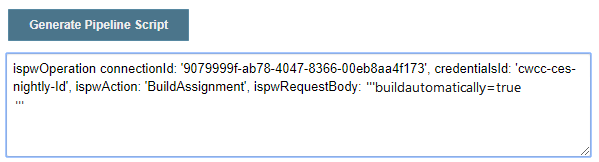
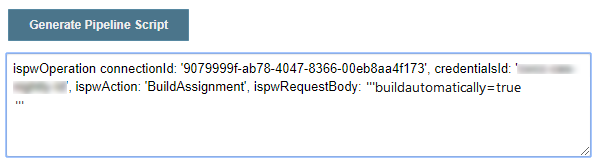
Updated images and text that contained private/sentitive information, cleaned up heading styles, updated introduction and renamed headings to match. Moved a tip to the proper location (at the start of the instructions).

Changed region(s): [[0.0, 0.4938, 0.1202, 0.5864], [0.8414, 0.3704, 0.9616, 0.463]]

diff --git a/docs/guidelines/ispw/GIT_to_ISPW_Integration_Tutorial.md b/docs/guidelines/ispw/GIT_to_ISPW_Integration_Tutorial.md
@@ -4,39 +4,39 @@ footer: MIT Licensed | Copyright © 2020 – Compuware
 ---
 # Git to ISPW Integration Tutorial
 
-This tutorial helps a developer understand the process of how the ISPW and Git synchronization process can be performed. It uses the ISPW training application PLAY to synchronize a change to a component from Git to ISPW. Specifically, after the necessary setup is completed, within Topaz Workbench an ISPW project containing the PLAY application source code is imported to a Git project that is then pushed to the Git repository as the master branch in Bitbucket. Then a new file change is pushed to Git, which then triggers a Jenkins multibranch pipeline job to perform the Git to ISPW integration and perform a build.
+This tutorial helps developers understand how to synchronize ISPW and Git. It uses the ISPW training application, called PLAY, to synchronize a change to a component from Git to ISPW. The sync can be done after the necessary setup is completed within Topaz Workbench and an ISPW project containing the PLAY application source code is imported to a Git project. That project is then pushed to the Git repository as the master branch in Bitbucket. Then a new file change is pushed to Git, which then triggers a Jenkins multibranch pipeline job to perform the Git to ISPW integration and perform a build.
 
-There are three sections in this tutorial: *Environment*, *Overview Steps* and *Detailed Steps*.
+There are three sections in this tutorial:
 
-The *Environment* section describes what environments to use to follow the steps outlined in this tutorial. If a different version of any of the software or plugins are used instead of the versions specified in the *Environment* section, different results may occur than what is shown in this tutorial.
+- *Environment Specifications:* this section describes what environments to use to follow the steps outlined in this tutorial. If a different version of any of the software or plugins are used instead of the versions specified in the *Environment* section, different results may occur than what is shown in this tutorial.
 
-The *Overview Steps* section provides a brief overview of the steps for performing the Git to ISPW integration. This section outlines the following:
+- *Process Overview:* this section provides a brief overview of the steps for performing the Git to ISPW integration. This section outlines the following:
 
-- [Set up the environment.](#set-up-the-environment)
-- [Set up a Git project with the source, YAML file, and Jenkinsfile, and set up a Jenkins multibranch pipeline.](#set-up-a-git-project-with-the-source-yaml-file-and-jenkinsfile-and-set-up-a-jenkins-multibranch-pipeline)
-- [Make a change and build.](#make-a-change-and-build)
-- [Submit change to pipeline.](#submit-change-to-pipeline)
+   - [Set up the environment.](#set-up-the-environment)
+   - [Set up a Git project with the source, YAML file, and Jenkinsfile, and set up a Jenkins multibranch pipeline.](#set-up-a-git-project-with-the-source-yaml-file-and-jenkinsfile-and-set-up-a-jenkins-multibranch-pipeline)
+   - [Make a change and build.](#make-a-change-and-build)
+   - [Submit change to pipeline.](#submit-change-to-pipeline)
 
-The *Detailed Steps* section provides the comprehensive steps to perform the Git to ISPW integration.
+- *Detailed Steps:* this section provides the comprehensive steps to perform the Git to ISPW integration.
 
 
-## Environment
+## Environment Specifications
 These are the minimum releases of software and plugins required.
 
-Topaz Workbench 20.01.01:
-- Egit in Eclipse 5.6.0
+- Topaz Workbench 20.01.01 including:
+   - Egit in Eclipse 5.6.0
 
-Jenkins version 2.190.3:
-- Topaz Workbench CLI version 20.01.01
-- Compuware Common Configurations Jenkins plugin 1.0.10-SNAPSHOT
-- ISPW Operations Jenkins plugin 1.0.8-SNAPSHOT
+- Jenkins version 2.190.3 including:
+   - Topaz Workbench CLI version 20.01.01
+   - Compuware Common Configurations Jenkins plugin 1.0.10-SNAPSHOT
+   - ISPW Operations Jenkins plugin 1.0.8-SNAPSHOT
 
-Atlassian Bitbucket v5.16.0
+- Atlassian Bitbucket v5.16.0
 
-ISPW PLAY application 18.02
+- ISPW PLAY application 18.02
 
 
-## Overview Steps
+## Process Overview
 
 ### **Set up the environment**
 <a id="set-up-the-environment"></a>
@@ -44,8 +44,14 @@ ISPW PLAY application 18.02
 1. [Install the necessary plugins in Topaz Workbench and Jenkins.](#install-the-necessary-plugins-in-topaz-workbench-and-jenkins)
 2. [Verify the ISPW mainframe PLAY application is available.](#verify-the-ispw-mainframe-play-application-is-available)
 
-### **Set up a Git project with the source, YAML file, and Jenkinsfile, and set up a Jenkins multibranch pipeline** 
+### Set up a Git Project and a Jenkins Multibranch Pipeline
+The Git project will include the source, a YAML file, and a Jenkinsfile.
 <a id="set-up-a-git-project-with-the-source-yaml-file-and-jenkinsfile-and-set-up-a-jenkins-multibranch-pipeline"></a>
+
+::: tip
+If the PLAY application is already in Git but the Jenkins Pipeline is not set up, skip steps 1-4 and proceed to step 5. If the PLAY application is already in Git and the Jenkins Pipeline is set up, skip steps 1-8 and proceed to the next section.
+
+:::
 
 1. [From Topaz Workbench’s **Project Explorer** view, create a new general project called **GitPlay** and import the ISPW project source.](#_1-create-an-ispw-project-named-play-play)
 2. [From Topaz Workbench’s **Project Explorer** view within the GitPlay project, configure the ISPW and Git mapping.](#_2-change-the-ispw-project-properties-to-keep-a-downloaded-copy-of-each-component)
@@ -55,11 +61,6 @@ ISPW PLAY application 18.02
 6. [Create a Jenkinsfile, which does a checkout of the source code, performs the Git to ISPW synchronization, and performs a build.](#_6-share-the-gitplay-project-as-a-git-repository-to-convert-the-ispw-project-to-a-git-project)
 7. [From Topaz Workbench’s Project Explorer view, import a Jenkinsfile to the root directory of the GitPlay project.](#_7-create-a-new-git-repository-named-ispwgitplaytest)
 8. [From Topaz Workbench’s Git Staging view, commit and push the GitPlay project to the master branch in the IspwGitPlayTest repository.](#_8-create-a-multibranch-pipeline-project-using-the-jenkinsfile)
-
-::: tip
-If the PLAY application is already in Git but the Jenkins Pipeline is not set up, skip steps 1-4 and proceed to step 5. If the PLAY application is already in Git and the Jenkins Pipeline is set up, skip steps 1-8 and proceed to the next section.
-
-:::
 
 ### **Make a change and build**
 <a id="make-a-change-and-build"></a>
@@ -80,15 +81,15 @@ If the PLAY application is already in Git but the Jenkins Pipeline is not set up
 ## Detailed Steps
 <a id="install-the-necessary-plugins-in-topaz-workbench-and-jenkins"></a>
 
-### Set up the environment
+### Set up the Environment
 
-#### **Install the necessary plugins in Topaz Workbench and Jenkins**
+#### Install the Necessary Plugins in Topaz Workbench and Jenkins
 
-##### <u>Topaz Workbench</u>
+##### **Topaz Workbench**
 
 Install Egit: Refer to [https://www.eclipse.org/egit/download/](https://www.eclipse.org/egit/download) for the installation.
 
-##### <u>Jenkins</u>
+##### **Jenkins**
 
 1. Install Topaz Workbench CLI version 20.01.01 on Windows or Linux according to the following [Topaz Workbench Installation Guide](https://docs.compuware.com/kb/KB2005/HTML/TopazWorkbench_Install/Responsive%20HTML5/index.html#t=TopazWorkbench_Install%2FInstall_Topaz_Workbench%2FInstall_Topaz_Workbench.htm%23TOC_Task_2_3_Install_Topazbc-4&rhsearch=command%20line%20interface&rhsyns=%20&rhtocid=_5_0_2)
    
@@ -101,7 +102,7 @@ Install Egit: Refer to [https://www.eclipse.org/egit/download/](https://www.ecli
 3. ISPW Operations Jenkins plugin. For the installation, refer to [Tool Configurations/Compuware ISPW Operations Plugin](https://devops.api.compuware.com/tool_configuration/plugins.html#compuware-ispw-operations-plugin).
 <a id="verify-the-ispw-mainframe-play-application-is-available"></a>
 
-#### **Verify the ISPW mainframe PLAY application is available** 
+#### Verify the ISPW mMinframe PLAY Application is Available
 
 Verify the ISPW PLAY application was installed as part of the ISPW install. It is installed as part of the Training Application delivered in the ISPW SAMPLIB that is as part of the Installation Verification Process (IVP). 
 
@@ -129,10 +130,10 @@ If you are not logged into a host connection where the ISPW PLAY application is 
 
 <a id="_1-create-an-ispw-project-named-play-play"></a>
 
-### Set up a Git project with the source, YAML file, and Jenkinsfile, and set up a Jenkins multibranch pipeline
+### Set up a Git Project with the Source, YAML File, and Jenkinsfile, and Set Up a Jenkins Multibranch Pipeline
 
 
-#### **Create a new general project called GitPlay and import the ISPW project source**
+#### Create a New General Project called GitPlay and Import the ISPW Project Source
 
 1. In Topaz Workbench’s **Project Explorer** view, from the **File** menu, select **New>Project**. The **New Project** wizard appears. 
 2. Toggle open the **General** node, select **Project**, and click **Next**. The **New Project** page appears.
@@ -217,7 +218,7 @@ If you are not logged into a host connection where the ISPW PLAY application is 
 
    <a id="_4-create-a-new-general-project-called-gitplay-and-import-the-ispw-project-source"></a>
 
-#### Create a new Git repository named IspwGitPlayTest
+#### Create a New Git repository Named IspwGitPlayTest
 
 1. Go to the Bitbucket Server.
 
@@ -234,7 +235,7 @@ Depending on the Git server (GitHub, Bitbucket, etc.) and interface (web, deskto
 
 <a id="_5-configure-the-ispw-and-git-mapping"></a>
 
-#### Create a multibranch pipeline project using the Jenkinsfile
+#### Create a Multibranch Pipeline Project Using the Jenkinsfile
 
 1. In the Jenkins UI, click **Jenkins** and select **New Item**.
 2. In the **Enter an item name** field, enter the name for a multi-branch pipeline project.
@@ -272,7 +273,7 @@ node {
 	connectionId: '9079999f-ab78-4047-8366-00eb8aa4f173', 
 	credentialsId: 'ce986ae7-1b4d-4f0d-8f9b-a0b022182124', 
 	gitCredentialsId: 'loginToGit3',
-	gitRepoUrl: 'https://evolve.compuware.com:8443/scm/~kathy.turetzky_compuware.com/ispwgitplaytest.git', 
+	gitRepoUrl: ''https://host:port/path/ispwgitplaytest.git', 
 	runtimeConfig: 'TPZP', 
 	stream: 'PLAY'
   }
@@ -281,7 +282,7 @@ node {
   {
 	ispwOperation connectionId: '9079999f-ab78-4047-8366-00eb8aa4f173', 
 	consoleLogResponseBody: true, 
-	credentialsId: 'CES20.1Conn', 
+	credentialsId: 'your-credential-id.1conn', 
 	ispwAction: 'BuildAssignment', 
 	ispwRequestBody: '''buildautomatically = true
 	'''
@@ -358,7 +359,7 @@ node {
 18. Click **Save**.
     <a id="_10-import-a-jenkinsfile-to-the-root-directory-of-the-gitplay-project"></a>
 
-#### **Import a Jenkinsfile to the root directory of the GitPlay project**
+#### Import a Jenkinsfile to the Root Directory of the GitPlay Project
 
 1. In Topaz Workbench’s **Project Explorer** view, right-click the **GitPlay** project node.
 
@@ -381,7 +382,7 @@ node {
    It is important to ensure that the Jenkinsfile is located at the project root, where the multibranch pipeline project’s configuration **Script Path** field expects it to be.
    :::
 
-#### **Commit and push the GitPlay project to the master branch in the IspwGitPlayTest repository**
+#### Commit and Push the GitPlay Project to the Master Branch in the IspwGitPlayTest Repository
 
 1. In Topaz Workbench, open the **Git** perspective. 
 
@@ -407,7 +408,7 @@ node {
 <a id="_1-switch-to-a-new-branch-named-playbranch1"></a>
 ### **Make a change and build**
 
-#### **Switch to a new branch named PlayBranch1** 
+#### Switch to a New Branch Named PlayBranch1** 
 
 1. In Topaz Workbench’s **Project Explorer** view, right-click the GitPlay project node and select **Team**>**Switch To**>**New Branch**. The **Create Branch** dialog box appears.
 2. In the **Branch name** field, specify **PlayBranch1** as the branch name.
@@ -417,7 +418,7 @@ node {
 ![VerifyMyBranch1](../images/VerifyMyBranch1.png)
 <a id="_2-make-a-change-to-a-cobol-component-tprog01-cob"></a>
 
-#### **Make a change to Cobol component TPROG01.cob**
+#### **Make a Change to Cobol Component TPROG01.cob**
 
 1. In Topaz Workbench’s **Project Explorer** view, expand **GitPlay>COB**.
 
@@ -432,7 +433,7 @@ node {
 5. From the **File** menu, select **Close**.
     <a id="_3-perform-the-build-action-to-verify-the-source-generates-successfully-along-with-any-impacted-components"></a>
 
-#### **Perform the build action to verify the source generates successfully along with any impacted components**
+#### Perform the Build Action to Verify the Source Generates Successfully Along With Any Impacted Components
 
 1. In Topaz Workbench’s **Project Explorer** view, right-click the **GitPlay** project node and select **Properties>ISPW**. The **ISPW** page of the **Properties** dialog box appears.
 
@@ -468,11 +469,11 @@ node {
 <a id="_1-commit-and-push-the-changes-to-git"></a>
 ###  **Submit change to pipeline**
 
-#### **Commit and push the changes to Git**
+#### Commit and Push the Changes to Git
 
 First commit and push only the Jenkinsfile so the updated assignmentId is used for the change to TPROG01. Then commit and push TPROG01.
 
-######  <u>Commit and push the Jenkinsfile</u>
+######  **Commit and Push the Jenkinsfile**
 
 1. In Topaz Workbench, open the **Git** perspective’s **Git Staging** view.
 
@@ -488,7 +489,7 @@ First commit and push only the Jenkinsfile so the updated assignmentId is used f
 
 6. Click **Close**.
 
- ###### <u>Commit and push TPROG01</u>
+ ###### **Commit and Push TPROG01**
 
 1. In the **Unstaged Changes** box, select **TPROG01** and click ![GitStagingAdd](../images/GitStagingAdd.png) to add it to the **Staged Changes** box.
 
@@ -501,7 +502,7 @@ First commit and push only the Jenkinsfile so the updated assignmentId is used f
 4. Click **Close**.
    <a id="_2-determine-whether-the-synchronization-process-completed-successfully"></a>
 
-#### **Determine whether the synchronization process completed successfully**
+#### Determine Whether the Synchronization Process Completed Successfully
 
 Two jobs will be triggered for the Jenkins multibranch pipeline project within a one-minute interval: one job when the Jenkinsfile was pushed and one job when TPROG01 was pushed. 
 
@@ -531,8 +532,6 @@ The build process was successfully completed.
 
 Git commit information can be viewed in Topaz within the **ISPW Assignment** view and the **ISPW Release** view.
 
-
-
 :::
 
 ::: warning CAUTION
@@ -540,7 +539,7 @@ For Topaz release 20.07.01, the ISPW CLI will skip loading deleted files during 
 
 :::
 
-#### **Verify the updates occurred to the mainframe**
+#### Verify the Updates Occurred to the Mainframe**
 
 1. In Topaz Workbench’s **ISPW Containers** view, find the assignment where TPROG01 was loaded and double-click the assignment. The **ISPW Tasks** view appears.
 
